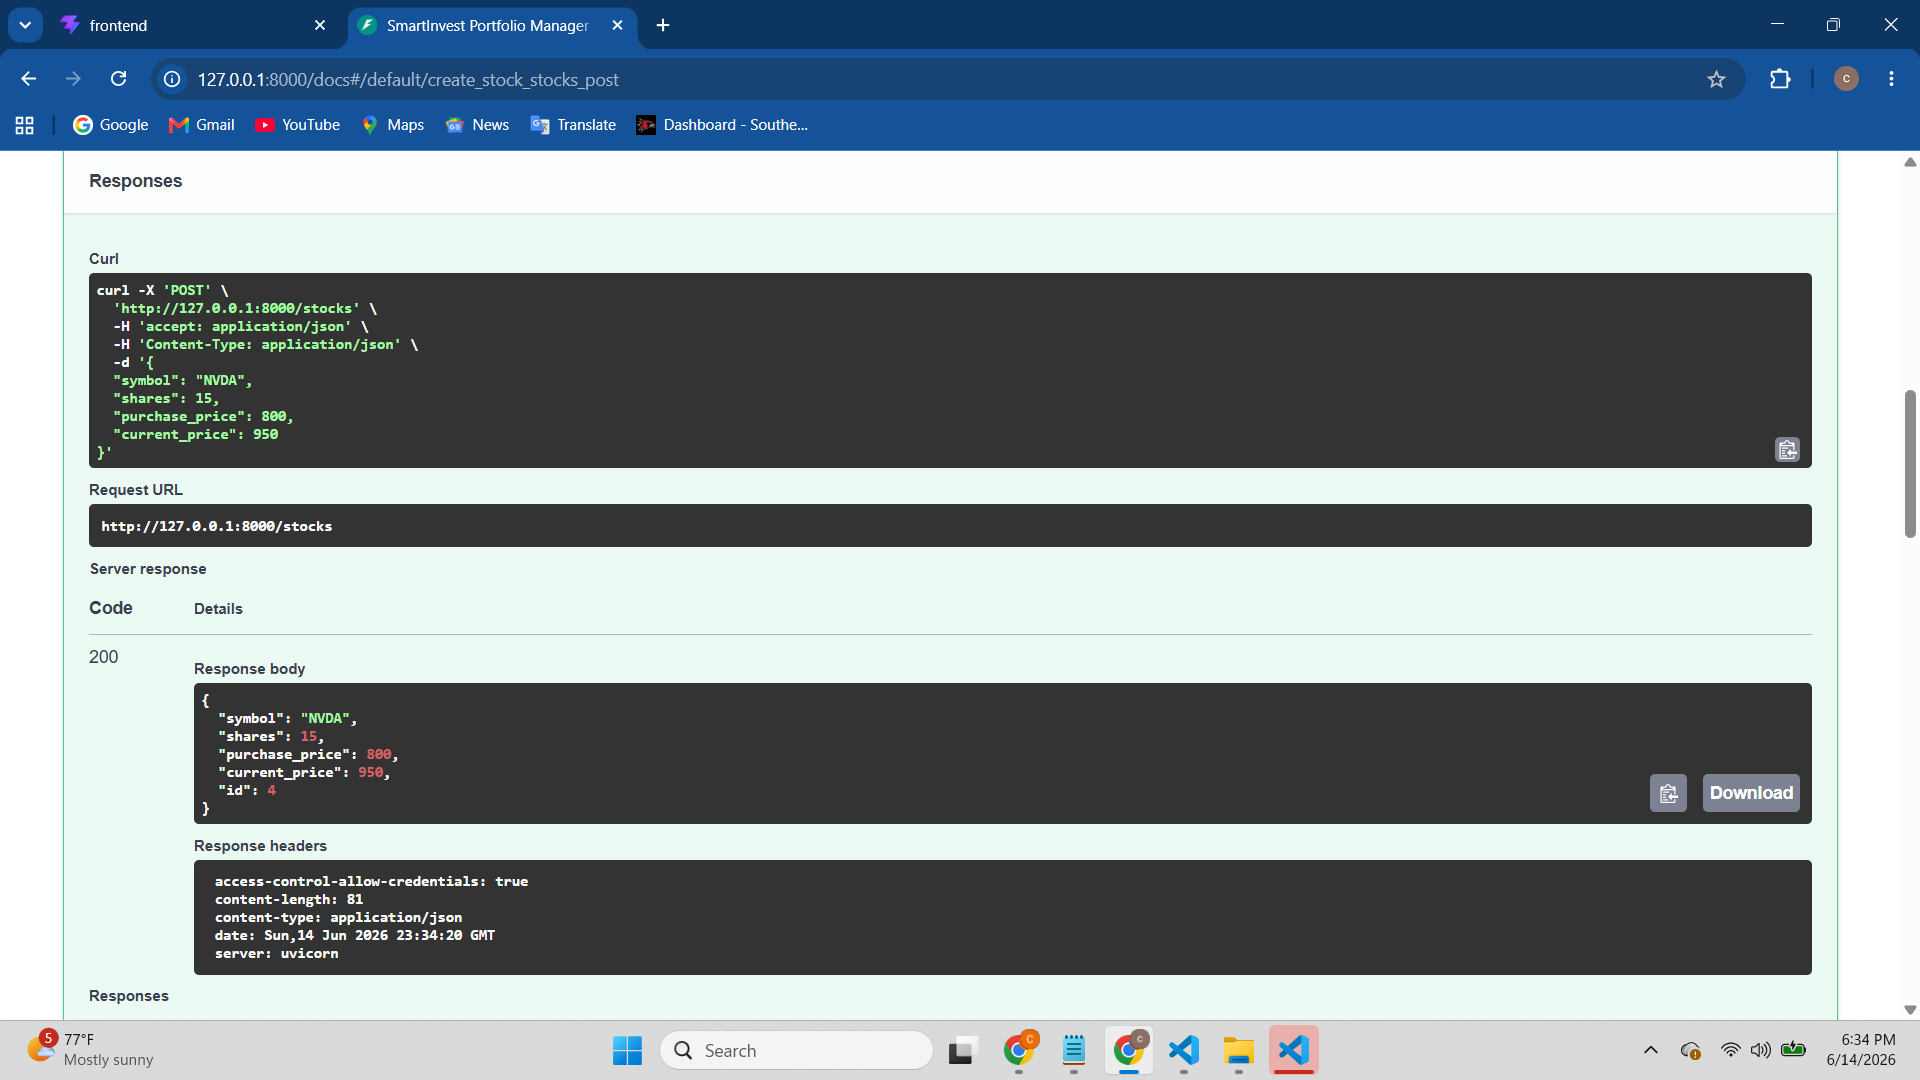
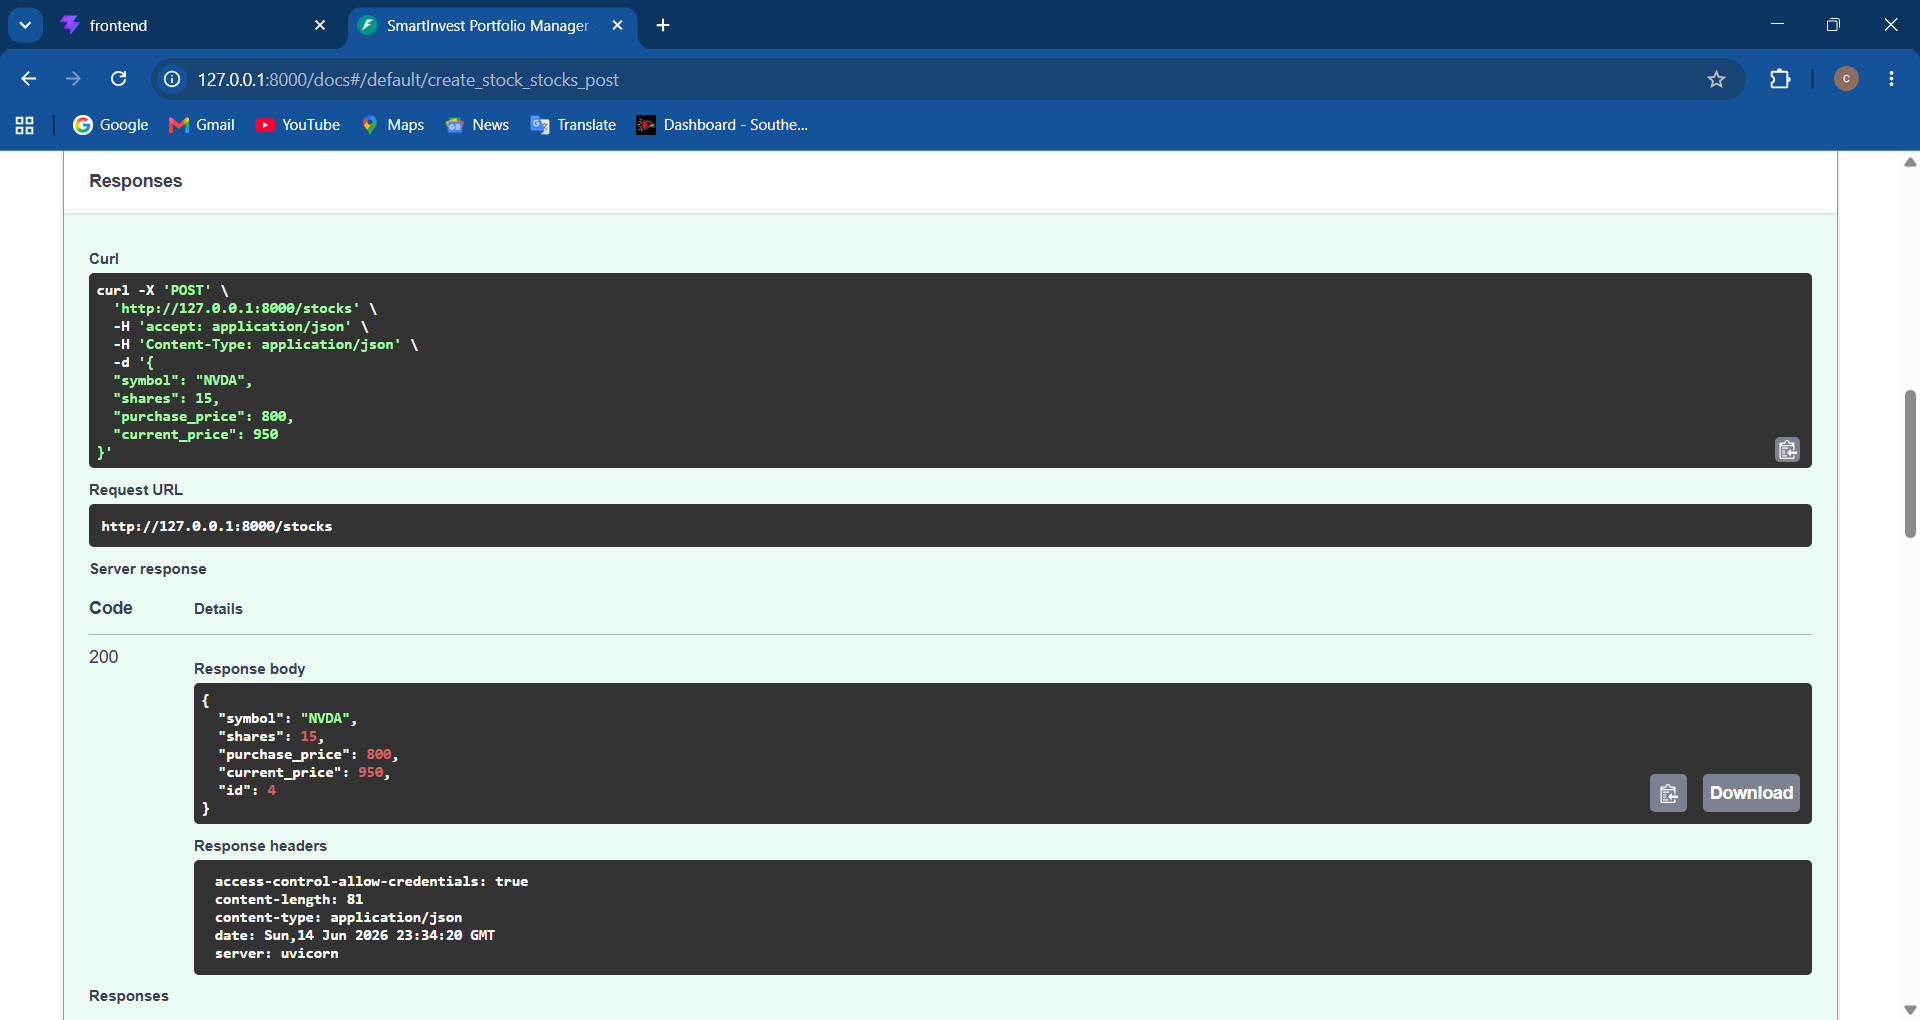
Updated README and project screenshots

diff --git a/README.md b/README.md
@@ -1,0 +1,68 @@
+# SmartInvest Portfolio Manager
+
+## Overview
+
+The SmartInvest Portfolio Manager is a full-stack investment tracking application that allows users to manage stock holdings, monitor portfolio performance, and visualize investment allocation.
+
+This application was developed using React for the frontend and FastAPI with SQLAlchemy for the backend. It demonstrates CRUD operations, REST API development, database integration, and modern frontend-backend communication.
+
+## Features
+
+* Add stock holdings
+* Update stock information
+* Delete stocks
+* Portfolio summary dashboard
+* Profit and loss calculation
+* Portfolio allocation pie chart
+* Search stocks by symbol
+* REST API documentation using Swagger UI
+
+## Technology Stack
+
+### Frontend
+
+* React
+* Axios
+* Recharts
+* CSS
+
+### Backend
+
+* FastAPI
+* SQLAlchemy
+* Pydantic
+* SQLite
+
+### Tools
+
+* Git
+* GitHub
+* VS Code
+
+## API Endpoints
+
+| Method | Endpoint           |
+| ------ | ------------------ |
+| GET    | /stocks            |
+| POST   | /stocks            |
+| PUT    | /stocks/{stock_id} |
+| DELETE | /stocks/{stock_id} |
+| GET    | /portfolio-summary |
+
+## Screenshots
+
+Project screenshots are available inside the screenshots folder.
+
+## Future Enhancements
+
+* User Authentication
+* Live Stock Market API Integration
+* Portfolio Performance Analytics
+* Cloud Deployment
+* Export Portfolio Reports
+
+## Author
+
+Chaitanya Naga Eeda
+
+Full Stack Portfolio Management Application built using React, FastAPI, SQLAlchemy, and SQLite.